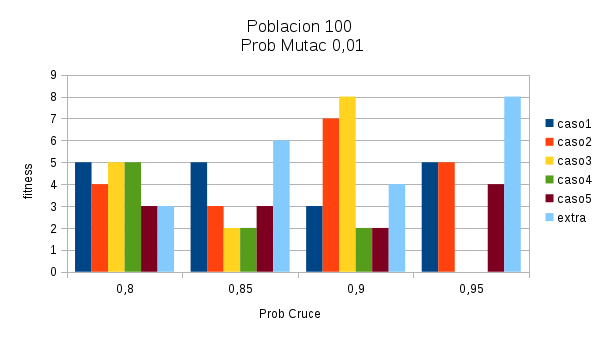
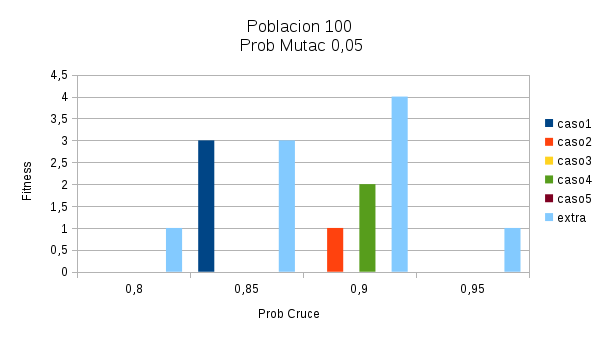
memoria

diff --git a/Practica1/Practica1.md b/Practica1/Practica1.md
@@ -49,7 +49,7 @@ header-includes:
 
 
 
-# Explicación breve y completa de la técnica Algoritmo Genético (AG). Debe quedarse muy claro cuáles son los elementos y el proceso que sigue dicha técnica.
+# Explicación breve y completa de la técnica Algoritmo Genético (AG).
 
 Un algoritmo genético (AG) es una variante de la búsqueda de haz estocástica en el que los estados sucesores se generan combinando a dos estados padres, más que modificar un solo estado.
 
@@ -162,8 +162,16 @@ Ejemplo 2: Tenemos una columna con los valores (7, 1, 3, 3, 5, 5, 6, 8, 9), al l
 
 
 
-# La tabla completa que muestre los valores de la función fitness para todas las pruebas realizadas para el ajuste del software sobre los distintos valores para los parámetros ajustables y para los distintos “Casos para el Ajuste” propuestos. La tabla debe mostrarse de forma clara y que facilite su análisis. Ver sección “Ajuste del Algoritmo Genético” en este mismo documento.
+# Tablas con los resultados de las ejecuciones.
 
+
+Vamos a realizar el ajuste de parámetros de la siguiente manera:
+Conjunto de casos del problema: Casos 1-5.
+Métodos/parámetros fijos: Nº generaciones = 12000.
+Métodos/parámetros ajustables: Tam Población, pc, pm, Selector.
+
+
+Para un mejor ajuste se ha añadido un sudoku extra de una complejidad superior al resto, en la siguiente sección se hablara de el.
 
 
 ![Tabla con selector GARouletteWheelSelector para casos de ajuste](images/CasosAjusteGARouletteWheelSelector.png)
@@ -183,27 +191,193 @@ Ejemplo 2: Tenemos una columna con los valores (7, 1, 3, 3, 5, 5, 6, 8, 9), al l
 
 
 
-# Análisis de las pruebas de ajuste (esto es, el análisis de la tabla de resultados del apartado c). El objetivo de este análisis es obtener el comportamiento del software diseñado.
+# Análisis de las pruebas de ajuste.
+
+Para un mejor ajuste se ha añadido un sudoku extra, este sudoku es diferente al de los casos de ajuste porque en vez de tener 30 o 33 números iniciales solo tiene 28, por lo que tiene una complejidad superior. En este análisis primero se observaran los 5 casos de ajuste y por ultimo se hará un análisis individual del sudoku extra.
+
+## Sudokus de caso de ajuste
+
+Estos sudokus tienen inicialmente 30 y 33 números.
+
+Observando las soluciones vemos que el selector GARouletteWheelSelector consigue en muy pocas ocasiones resolver los 5 casos, por lo que usaremos el selector GATournamentSelector.
+
+En cuanto a la tamaño de la población no se aprecian diferencias significativas, por lo que podríamos usar cualquiera de los dos.
+
+Mirando la figura 3 podemos apreciar que el pc de 0.9 es negativo ya que solo consigue resolver el sudoku del `Caso 1`, por el contrario 0.8 y 0.95 consiguen resolver todos los casos.
+
+
+Mirando la figura 4 podemos apreciar que un pm de 0.01 es negativo ya que no consigue resolver ningún sudoku, por el contrario el resto si consigue resolver todos los sudokus.
+
+Dado que hay gran cantidad de soluciones validad para resolver los casos vamos a añadir también el promedio de los tiempos de ejecución de todos los casos, ya que ademas de buscar solucionar un sudoku buscamos hacerlo en el menor tiempo posible.
+
+Mirando la figura 2, en la columna `Tiempo Promedio C` tenemos el promedio de los tiempos de ejecución de los casos de ajuste, podemos apreciar que un pm de 0.1 suele ofrecer menores tiempos de ejecución.
+
+Por lo que al final tenemos:
+
+Selector | Población | pc | pm | Tiempo Ejecución
+---|---|---|---|---
+GATournamentSelector | 100 | 0.8 | 0.1 | 0.69
+GATournamentSelector | 100 | 0.85 | 0.1 | 1.058
+GATournamentSelector | 100 | 0.9 | 0.1 | 1.112
+GATournamentSelector | 100 | 0.95 | 0.1 | 0.078
+
+
+Y viendo los tiempos de ejecución de cada pc comprobamos que pc=0.95 es mucho mas rápido que el resto ademas que el resto de configuraciones validas.
+
+Por lo que nuestra configuración final sera:
+
+Selector | Población | pc | pm
+---|---|---|---|---
+GATournamentSelector | 100 | 0.95 | 0.1 
+
+
+Mirando la configuración valida pero mas lenta que tenemos que tarda 1.214 seg, si la comparamos con la elegida que tarde 0.075 seg podemos decir que es un 1456.40%  mas rápida que la solución mas lenta.
+
+$$
+\frac{1.214}{0.078} = 15.5640 == 1456.40%
+$$
+
+
+## Sudoku extra
+
+Este sudoku al tener menos números iniciales es mas complejo, y solo hay 3 configuraciones que sean capaz de resolverlo junto con el resto de casos:
+
+Selector | Población | pc | pm | Tiempo Ejecución
+---|---|---|---|---
+GATournamentSelector | 100 | 0.95 | 0.15 | 0.91
+GATournamentSelector | 150 | 0.85 | 0.1 | 0.11
+GATournamentSelector | 150 | 0.95 | 0.125 | 1.53
+
+En esta ocasión como mejor configuración tomaremos:
+
+Selector | Población | pc | pm 
+---|---|---|---|---
+GATournamentSelector | 150 | 0.85 | 0.1
+
+
+# Manual-Asignación.
+
+
+Para sudokus que tengan 30 o mas números iniciales usaremos:
+
+Selector | Población | pc | pm
+---|---|---|---|---
+GATournamentSelector | 100 | 0.95 | 0.1 
+
+
+Para sudokus de menos de 30 números iniciales usaremos:
+
+Selector | Población | pc | pm 
+---|---|---|---|---
+GATournamentSelector | 150 | 0.85 | 0.1
+
+
+Los parámetros que hay que pasarle al binario son: 
+
+`UM-SSII Caso-X.txt población selector pc pm`
+
+
+# Casos del Usuario
+
+
+## Caso 1
+
+Como tiene 33 números iniciales usaremos: 
+
+Selector | Población | pc | pm
+---|---|---|---|---
+GATournamentSelector | 100 | 0.95 | 0.1 
+
+
+Ejemplo de ejecución: `UM-SSII Sudoku-1.txt 100 GATournamentSelector 1.95 0.1`
+
+Solución:
+
+```
+El GA encuentra la solución ( 4 5 8 3 6 7 9 1 2 1 6 3 9 2 5 7 4 8 2 9 7 8 4 1 5 6 3 8 4 5 2 9 6 3 7 1 7 3 2 5 1 8 6 9 4 6 1 9 4 7 3 2 8 5 5 7 1 6 8 2 4 3 9 9 2 6 1 3 4 8 5 7 3 8 4 7 5 9 1 2 6 )
+fitness: 0
+```
+
+Como podemos observar resuelve el sudoku y obtenemos el sudoku resulto en forma lineal, si queremos verlo en un formato mas amigable tendríamos:
+
+```
+4 5 8 3 6 7 9 1 2 
+1 6 3 9 2 5 7 4 8 
+2 9 7 8 4 1 5 6 3 
+8 4 5 2 9 6 3 7 1 
+7 3 2 5 1 8 6 9 4 
+6 1 9 4 7 3 2 8 5 
+5 7 1 6 8 2 4 3 9 
+9 2 6 1 3 4 8 5 7 
+3 8 4 7 5 9 1 2 6
+```
 
 
 
-a) se eligen los distintos métodos aplicables y un conjunto de posibles valores para los parámetros, 
-b) se selecciona un conjunto significativo de casos del problema, 
-c) se resuelven todos los casos utilizando todas las combinaciones de métodos-valores, 
-d) se analizan las soluciones. 
-A partir de esto, debemos obtener unos determinados métodos y valores que hacen al algoritmo robusto, eficiente y óptimo (o lo mejor posible).
+## Caso 2
+
+Como tiene 33 números iniciales usaremos: 
+
+Selector | Población | pc | pm
+---|---|---|---|---
+GATournamentSelector | 100 | 0.95 | 0.1 
 
 
-# A partir de este análisis, indicar qué valores de los parámetros debemos utilizar, y el protocolo para asignarlos, para que el software tenga un comportamiento aceptable. Denominar a esta sección “manual-Asignación”.
+Ejemplo de ejecución: `UM-SSII Sudoku-2.txt 100 GATournamentSelector 1.95 0.1`
+
+Solución:
+
+```
+El GA encuentra la solución ( 6 7 1 8 9 2 3 5 4 8 5 9 4 1 3 7 2 6 3 2 4 6 5 7 1 8 9 4 3 6 7 8 5 2 9 1 5 1 2 3 6 9 8 4 7 9 8 7 1 2 4 5 6 3 7 6 3 5 4 8 9 1 2 2 4 5 9 7 1 6 3 8 1 9 8 2 3 6 4 7 5 )
+fitness: 0
+```
+
+Como podemos observar resuelve el sudoku y obtenemos el sudoku resulto en forma lineal, si queremos verlo en un formato mas amigable tendríamos:
+
+```
+6 7 1 8 9 2 3 5 4 
+8 5 9 4 1 3 7 2 6 
+3 2 4 6 5 7 1 8 9 
+4 3 6 7 8 5 2 9 1 
+5 1 2 3 6 9 8 4 7 
+9 8 7 1 2 4 5 6 3 
+7 6 3 5 4 8 9 1 2 
+2 4 5 9 7 1 6 3 8 
+1 9 8 2 3 6 4 7 5
+```
 
 
-# Para cada uno de los “Casos del Usuario” (ver sección correspondiente), indicar el protocolo seguido para resolverlo (siguiendo el “manual-Asignación”), el valor para cada parámetro, la solución obtenida y su fitness.
+
+## Caso 3
+
+Como tiene 33 números iniciales usaremos: 
+
+Selector | Población | pc | pm
+---|---|---|---|---
+GATournamentSelector | 100 | 0.95 | 0.1 
 
 
+Ejemplo de ejecución: `UM-SSII Sudoku-3.txt 100 GATournamentSelector 1.95 0.1`
 
+Solución:
 
+```
+El GA encuentra la solución ( 1 5 9 7 2 4 8 6 3 8 2 4 1 3 6 5 9 7 7 6 3 9 8 5 1 2 4 9 4 2 3 6 8 7 1 5 3 7 8 5 1 9 2 4 6 5 1 6 2 4 7 9 3 8 4 8 7 6 9 1 3 5 2 6 3 1 8 5 2 4 7 9 2 9 5 4 7 3 6 8 1 )
+fitness: 0
+```
 
+Como podemos observar resuelve el sudoku y obtenemos el sudoku resulto en forma lineal, si queremos verlo en un formato mas amigable tendríamos:
 
-
+```
+1 5 9 7 2 4 8 6 3 
+8 2 4 1 3 6 5 9 7
+7 6 3 9 8 5 1 2 4 
+9 4 2 3 6 8 7 1 5 
+3 7 8 5 1 9 2 4 6 
+5 1 6 2 4 7 9 3 8 
+4 8 7 6 9 1 3 5 2 
+6 3 1 8 5 2 4 7 9 
+2 9 5 4 7 3 6 8 1
+```
 
 # Bibliografía 
